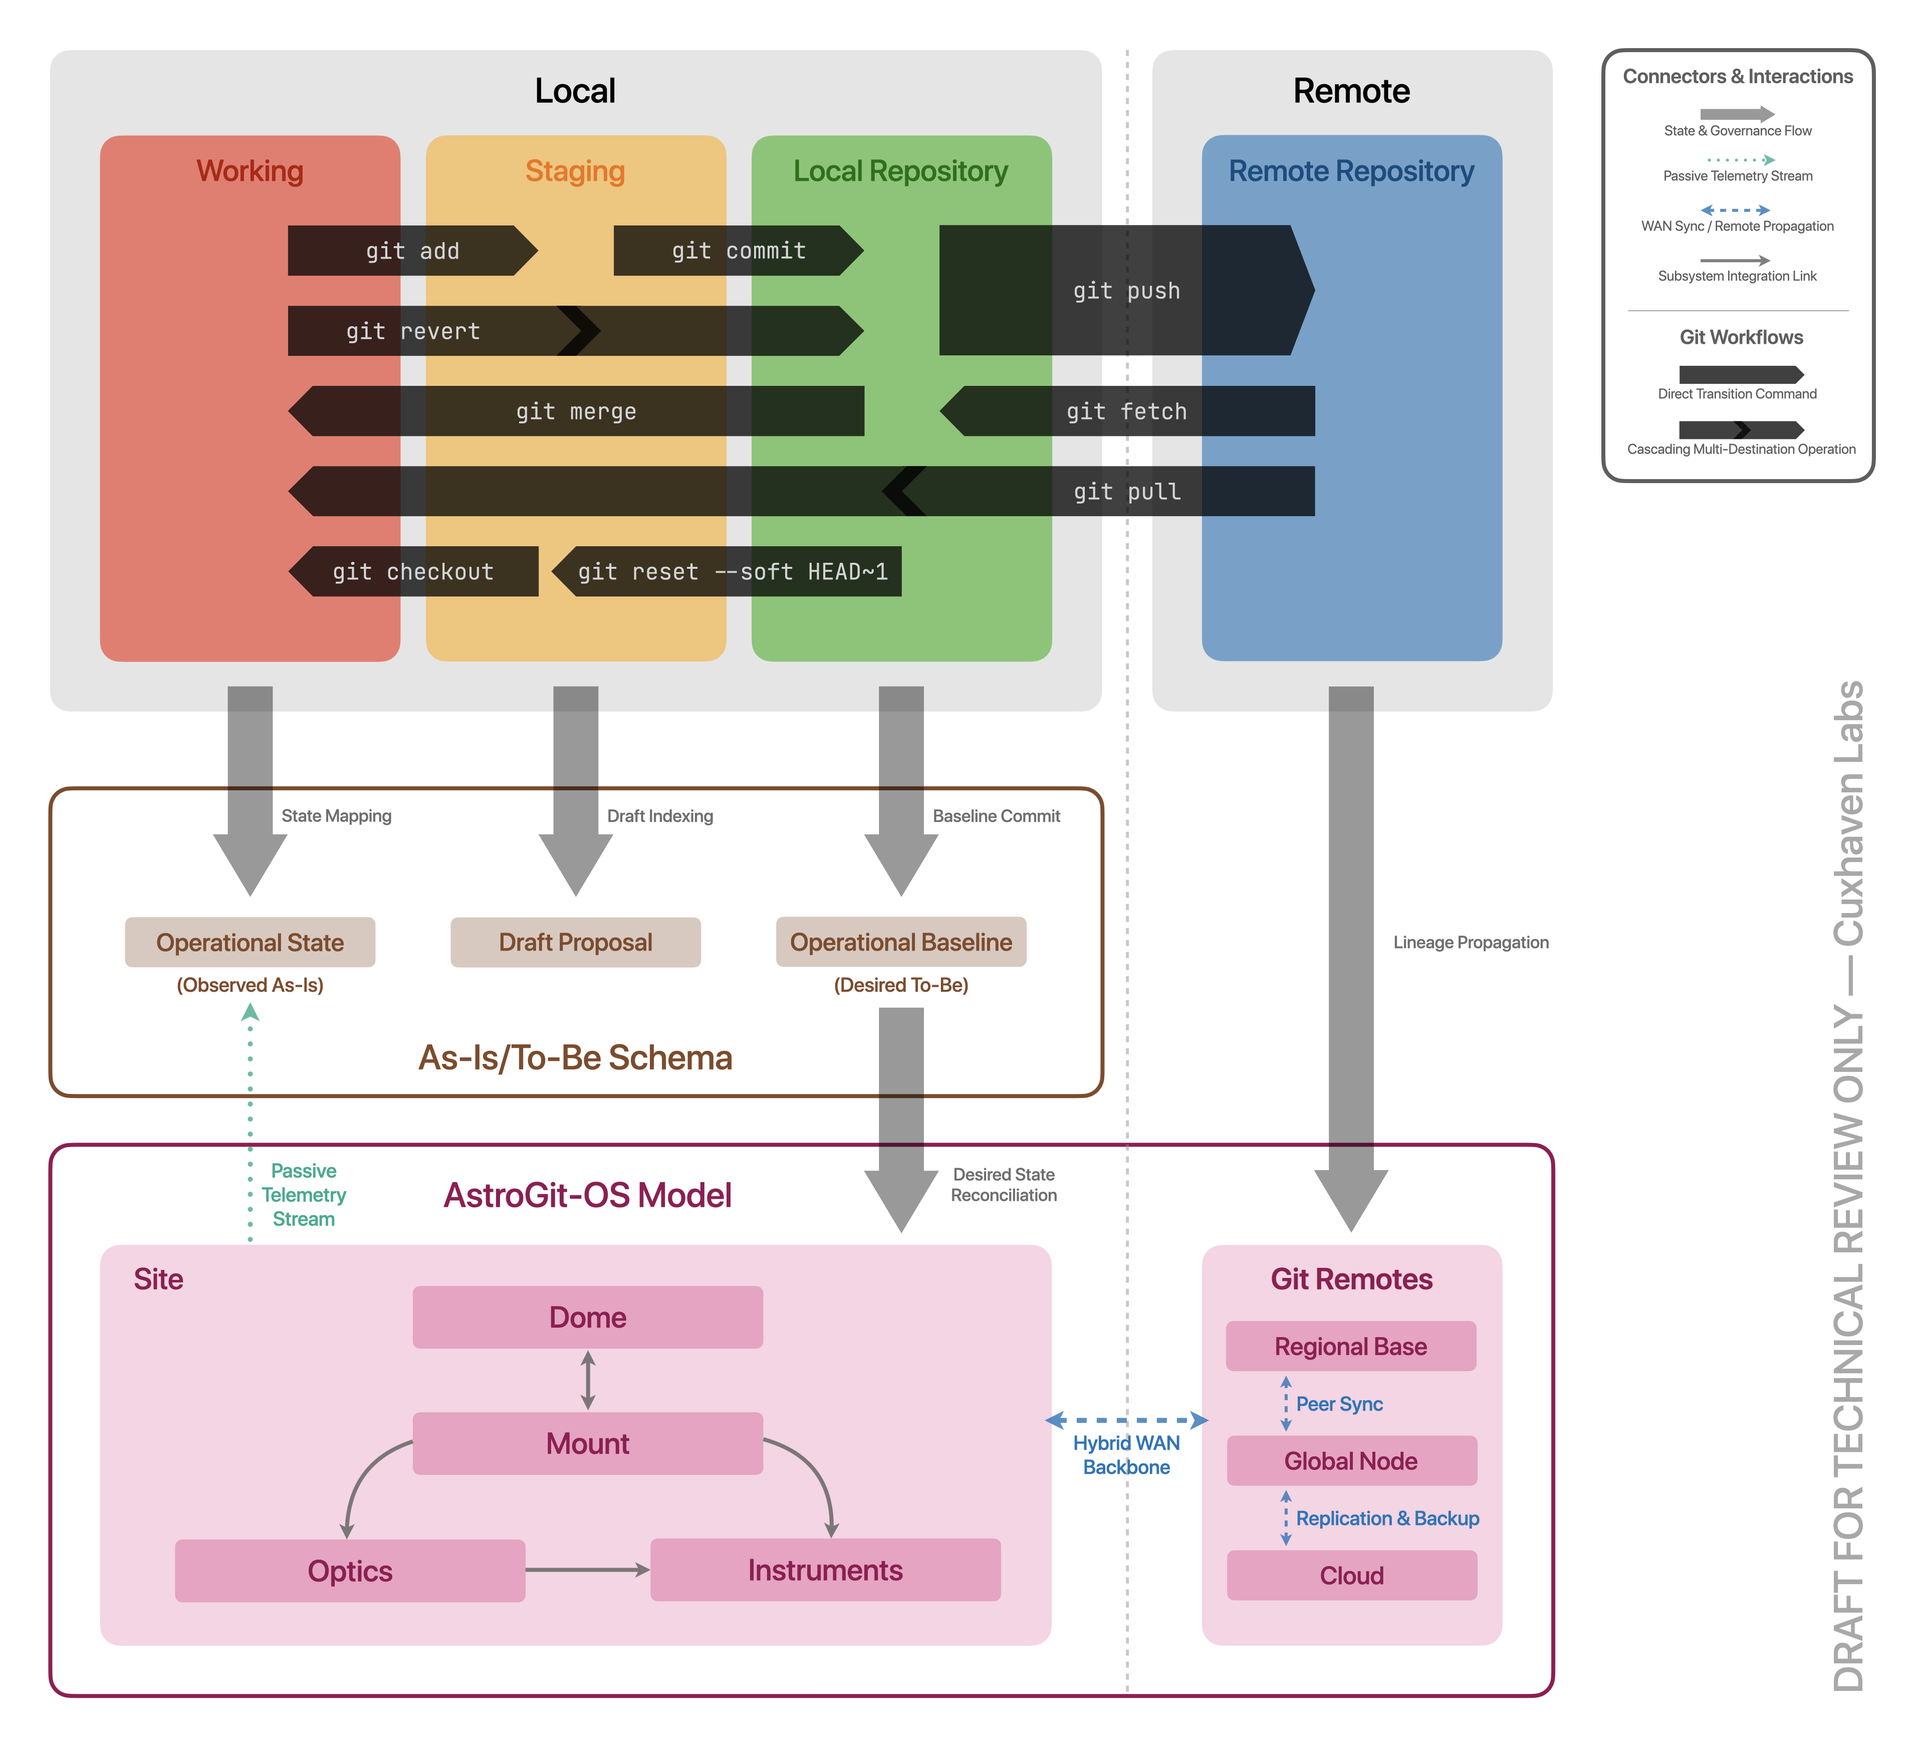
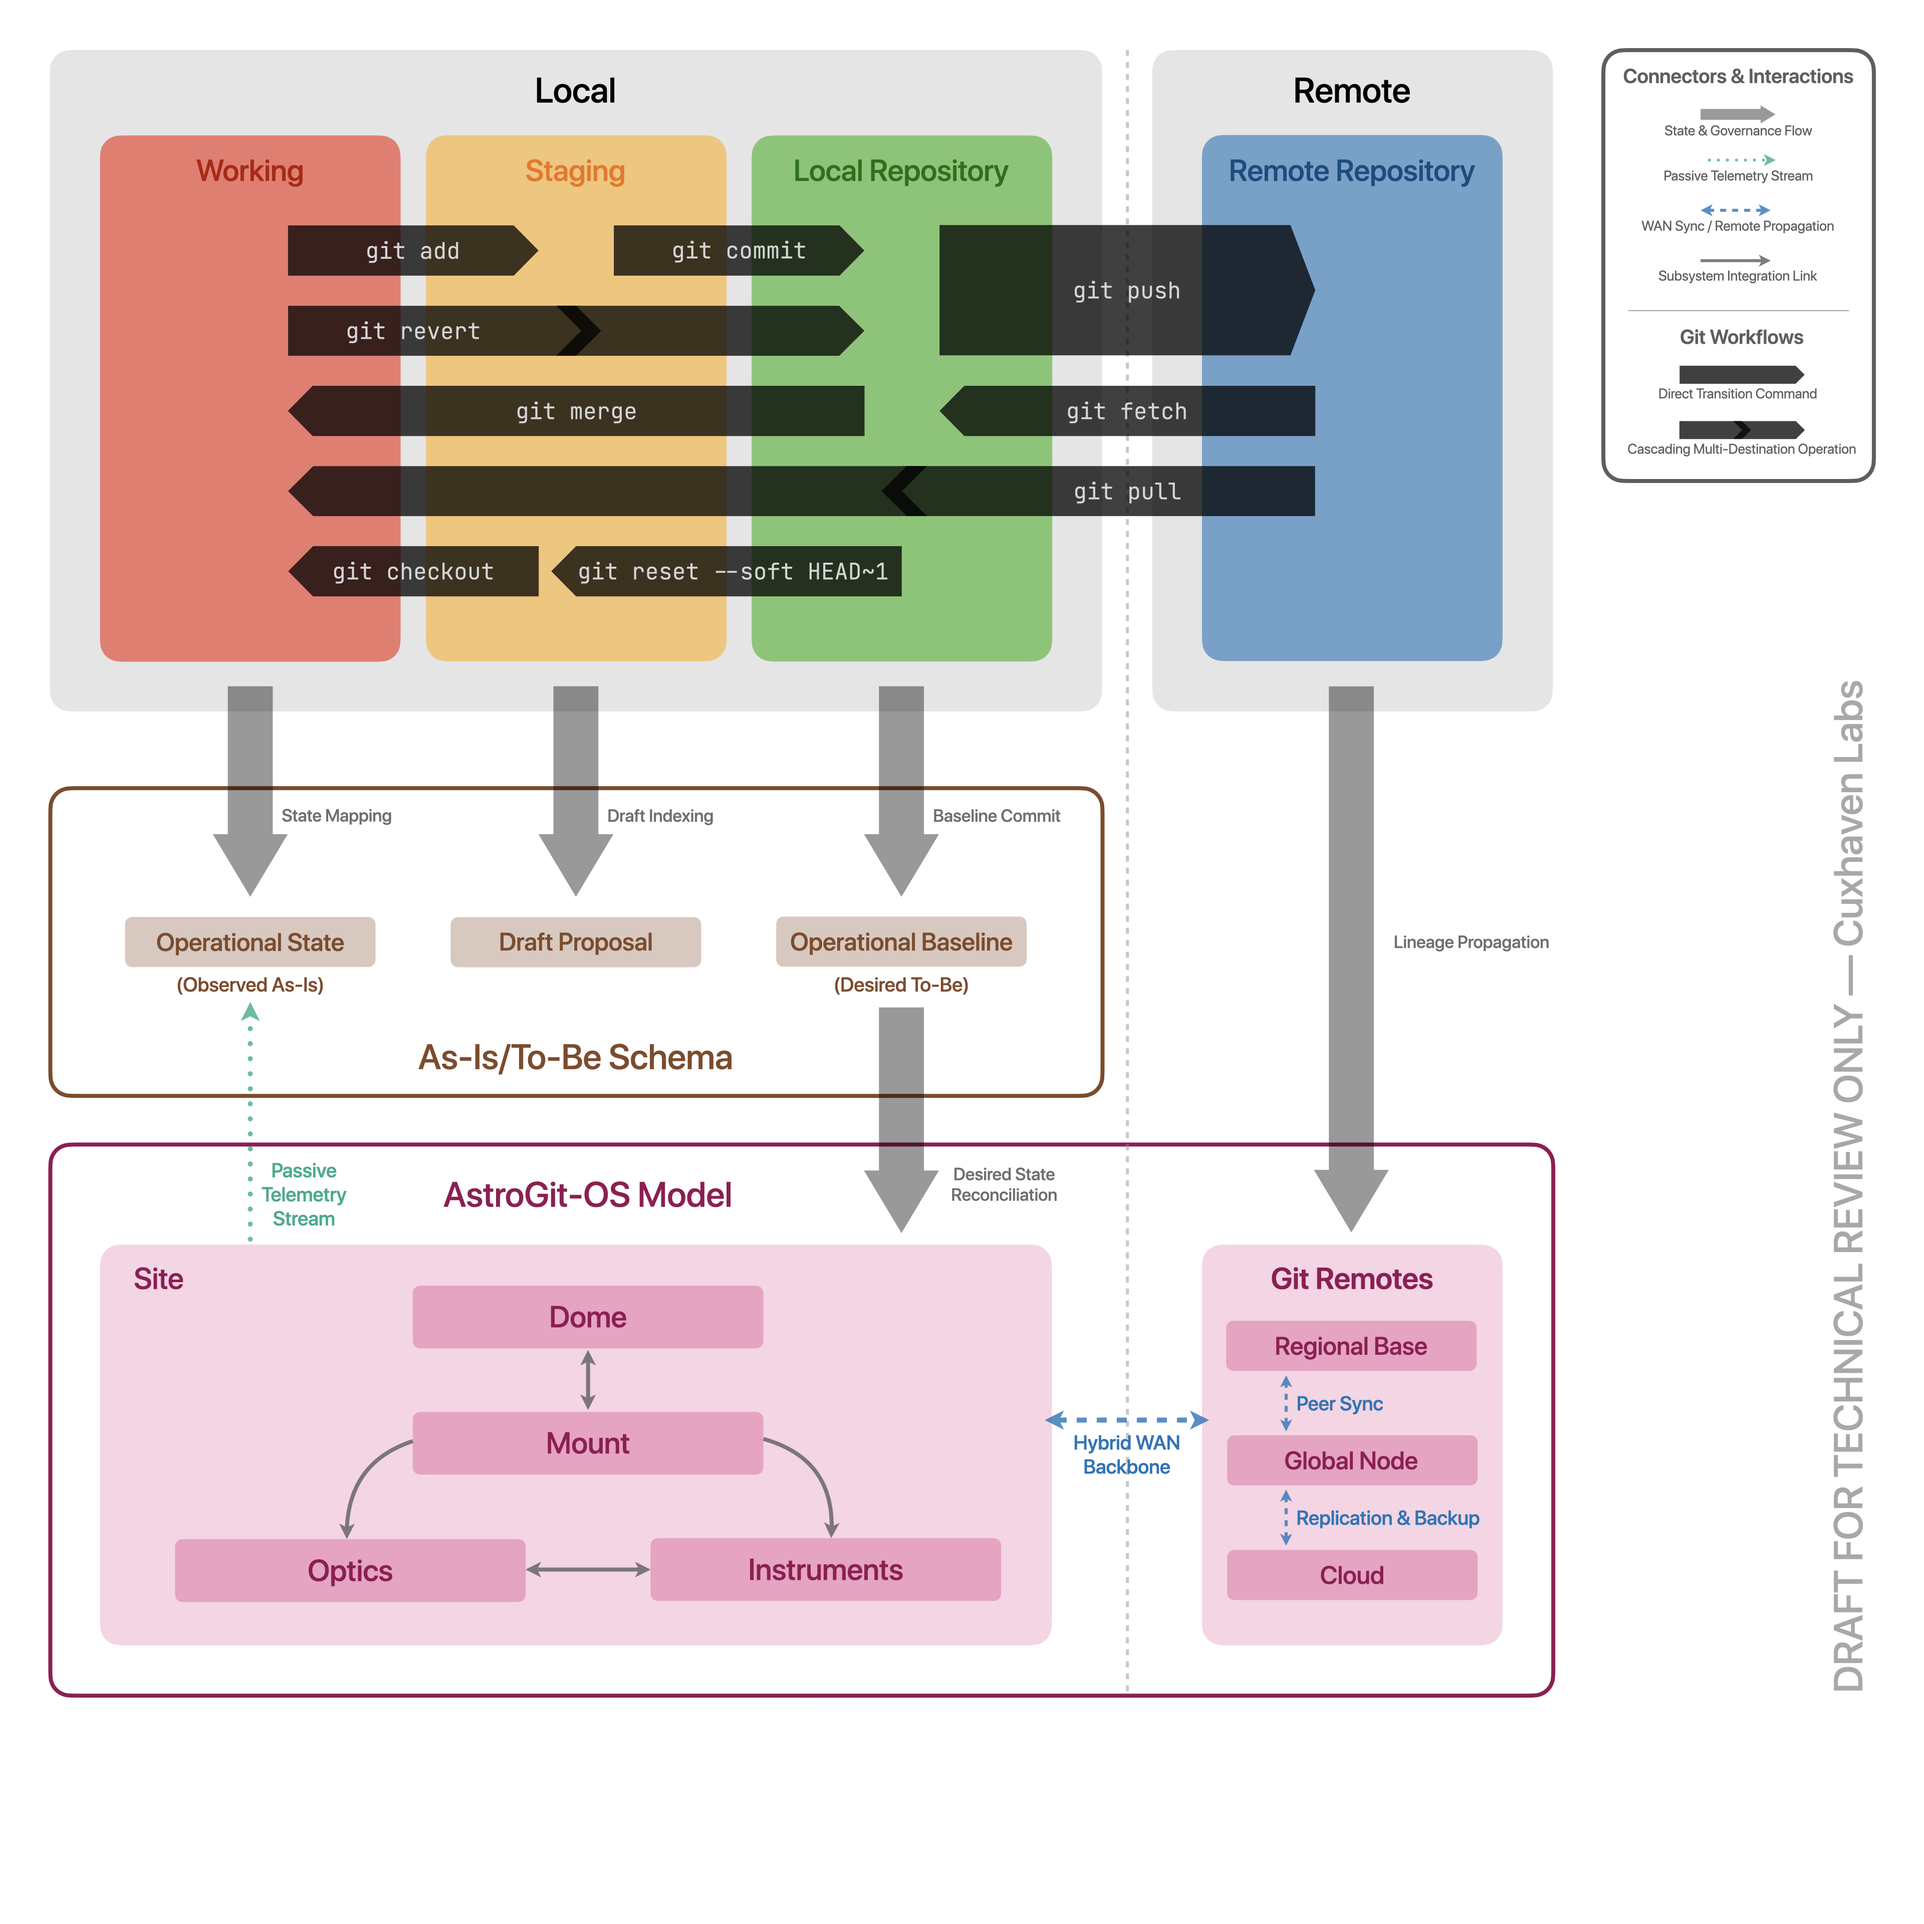
edit: minor changes into public documentation

diff --git a/README.md b/README.md
@@ -101,7 +101,7 @@ lineage:
 
 AstroGit-OS roadmap is building using native GitHub features: issues, milestones, and projects.
 
-* **[Milestone 1](https://github.com/pablozunigac/AstroGit-OS/milestone/1): Declarative Modeling and Reader Demonstrator (_In Progress_)**  
+* **Milestone 1: Declarative Modeling and Reader Demonstrator (_In Progress_)**  
   Formalization of the optomechanical system hierarchy and development of the functional prototype for asynchronous metadata ingestion.
 
 * **Milestone 2: Reconciliation Engine and Drift Detection (_Q1 2027_)**  
